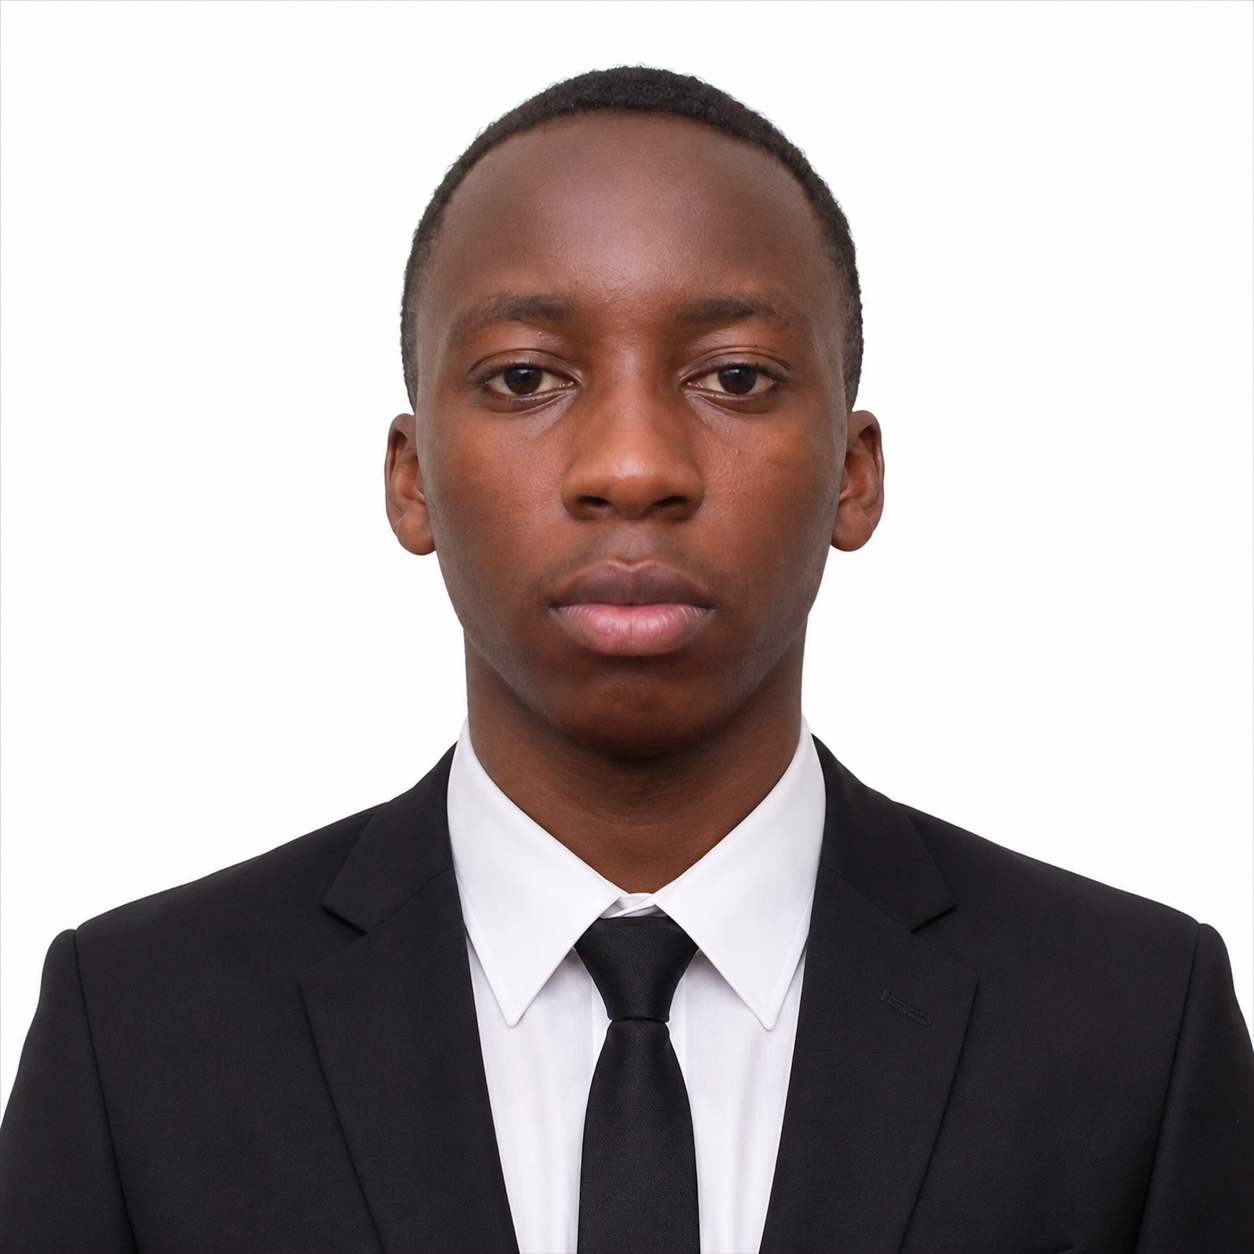
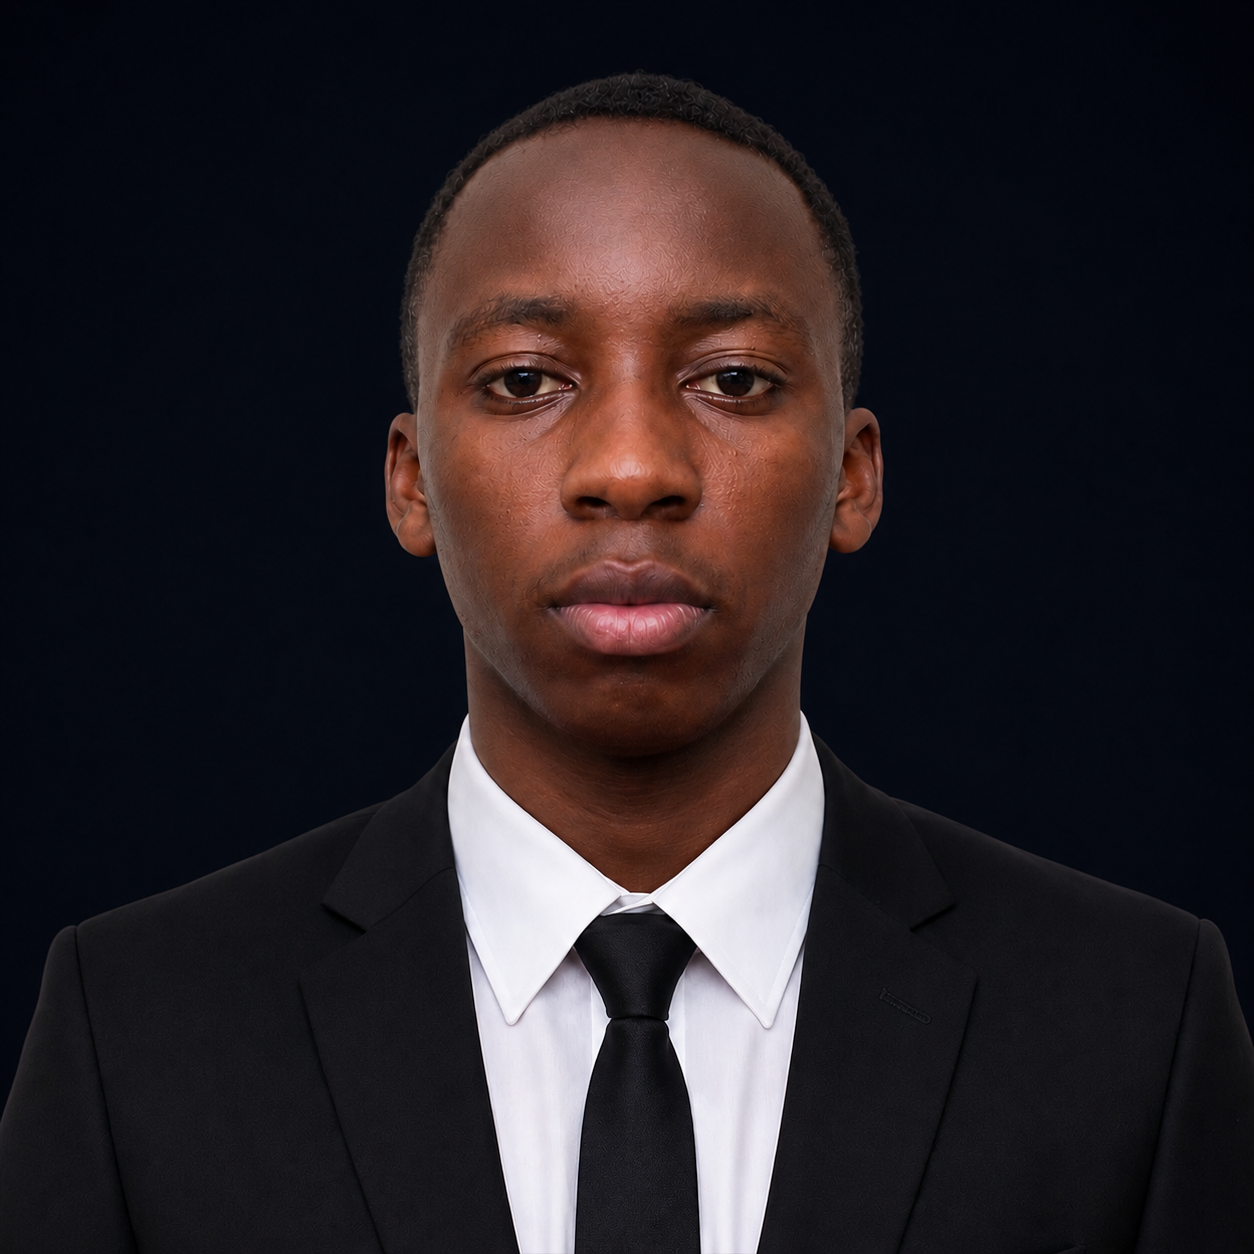
second commit

diff --git a/src/components/Footer.jsx b/src/components/Footer.jsx
@@ -8,7 +8,7 @@ const Footer = () => {
           <div className="text-gray-500 text-sm">
           © {new Date().getFullYear()} Gibbor Tech – Full‑Stack & Database Engineer          </div>
           <div className="flex space-x-6">
-            <a href="#" className="text-gray-400 hover:text-blue-400 text-xl"><FaGithub /></a>
+            <a href="https://github.com/igiranezagibbor" className="text-gray-400 hover:text-blue-400 text-xl"><FaGithub /></a>
             <a href="#" className="text-gray-400 hover:text-blue-400 text-xl"><FaLinkedin /></a>
             <a href="#" className="text-gray-400 hover:text-blue-400 text-xl"><FaTwitter /></a>
           </div>

diff --git a/src/components/Hero.jsx b/src/components/Hero.jsx
@@ -42,7 +42,7 @@ const Hero = () => {
               </a>
             </div>
             <div className="mt-8 flex gap-5 justify-center lg:justify-start text-gray-400">
-              <a href="#" className="hover:text-blue-400 text-2xl transition"><FaGithub /></a>
+              <a href="https://github.com/igiranezagibbor" className="hover:text-blue-400 text-2xl transition"><FaGithub /></a>
               <a href="#" className="hover:text-blue-400 text-2xl transition"><FaLinkedin /></a>
             </div>
           </div>
